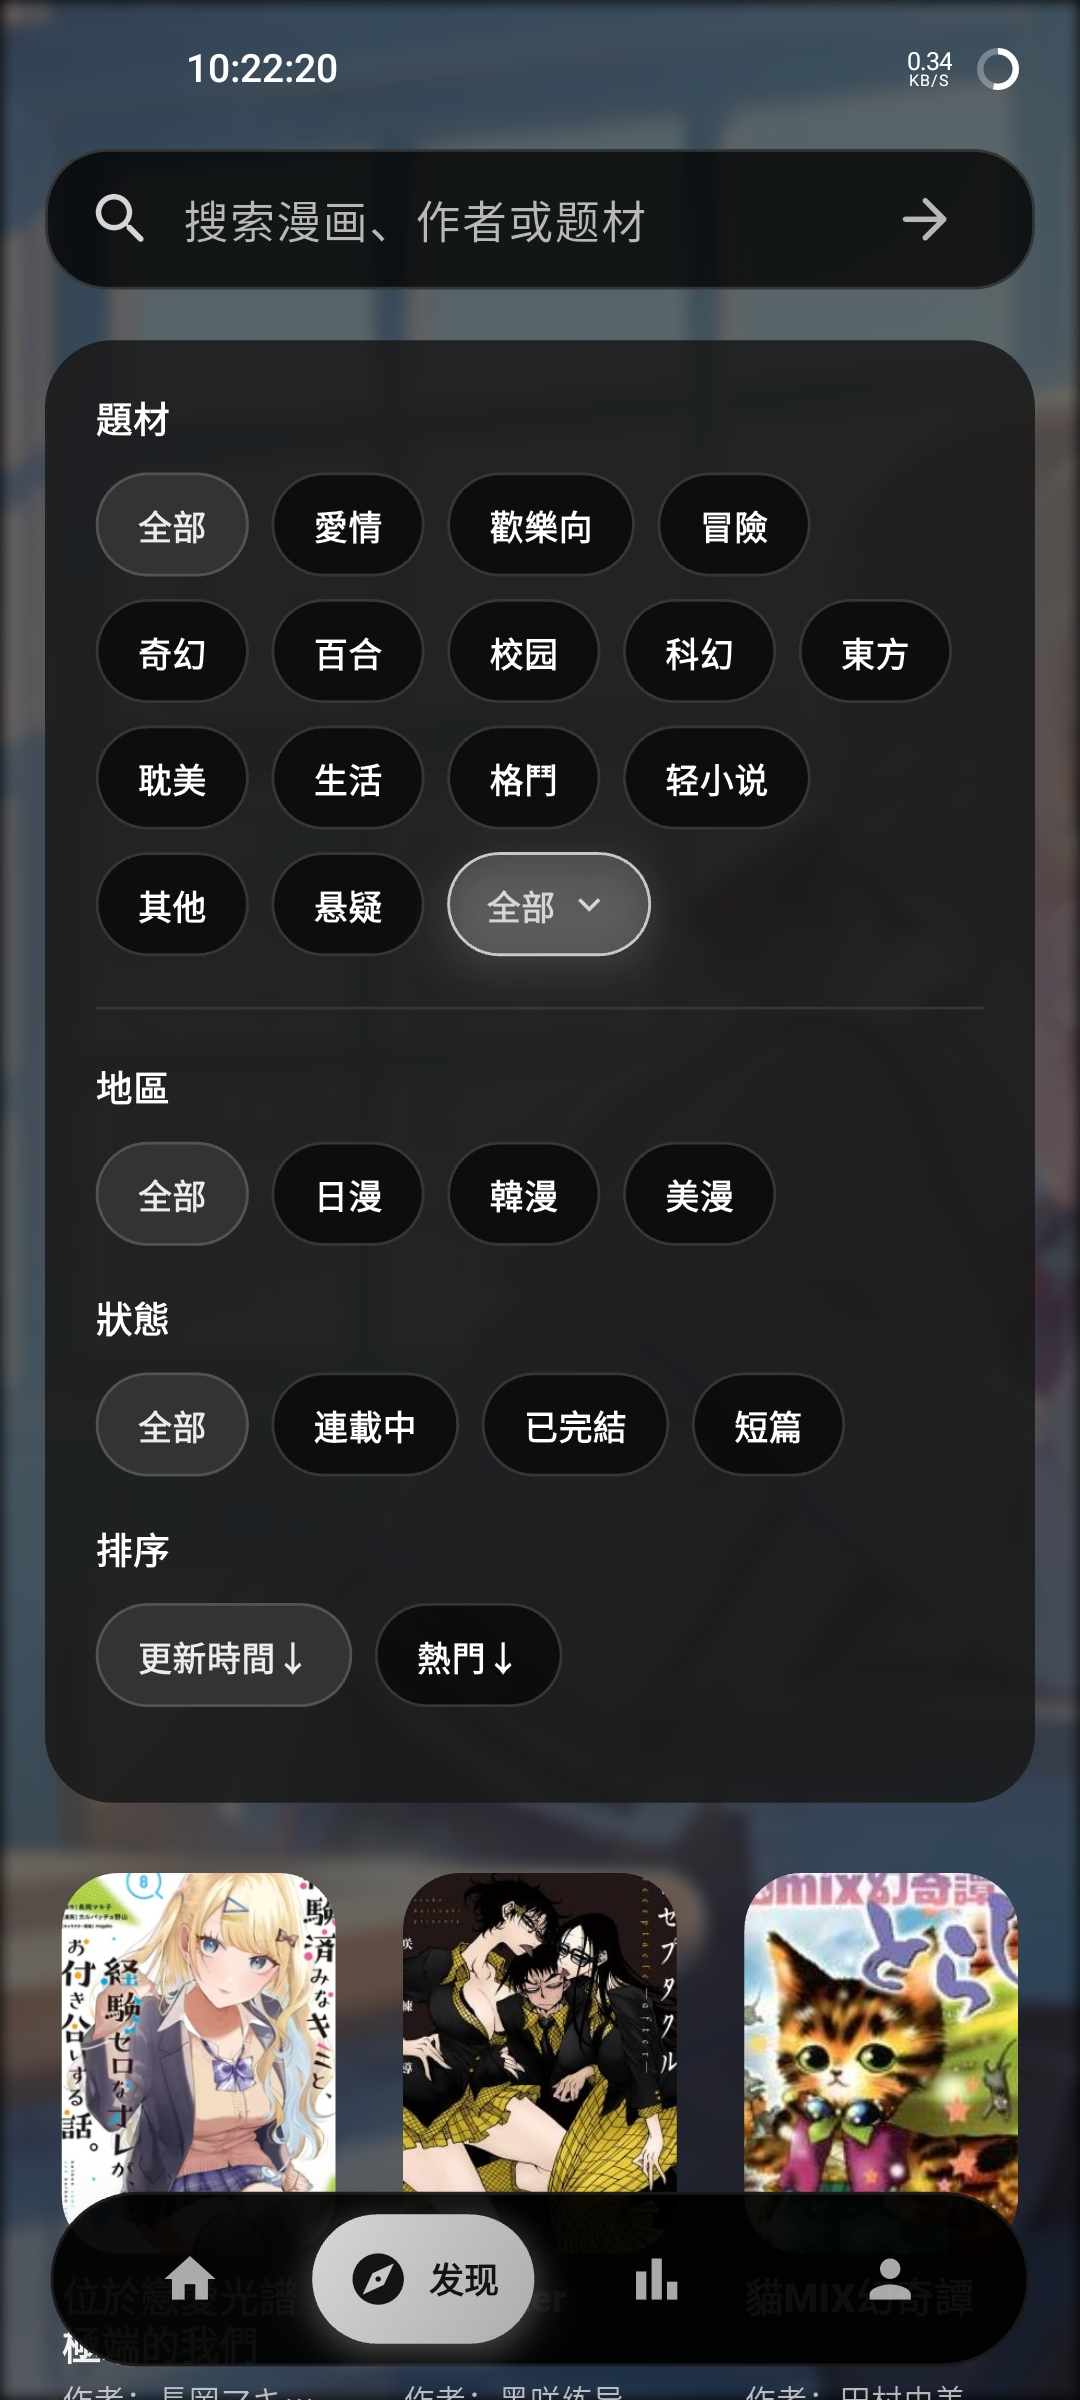
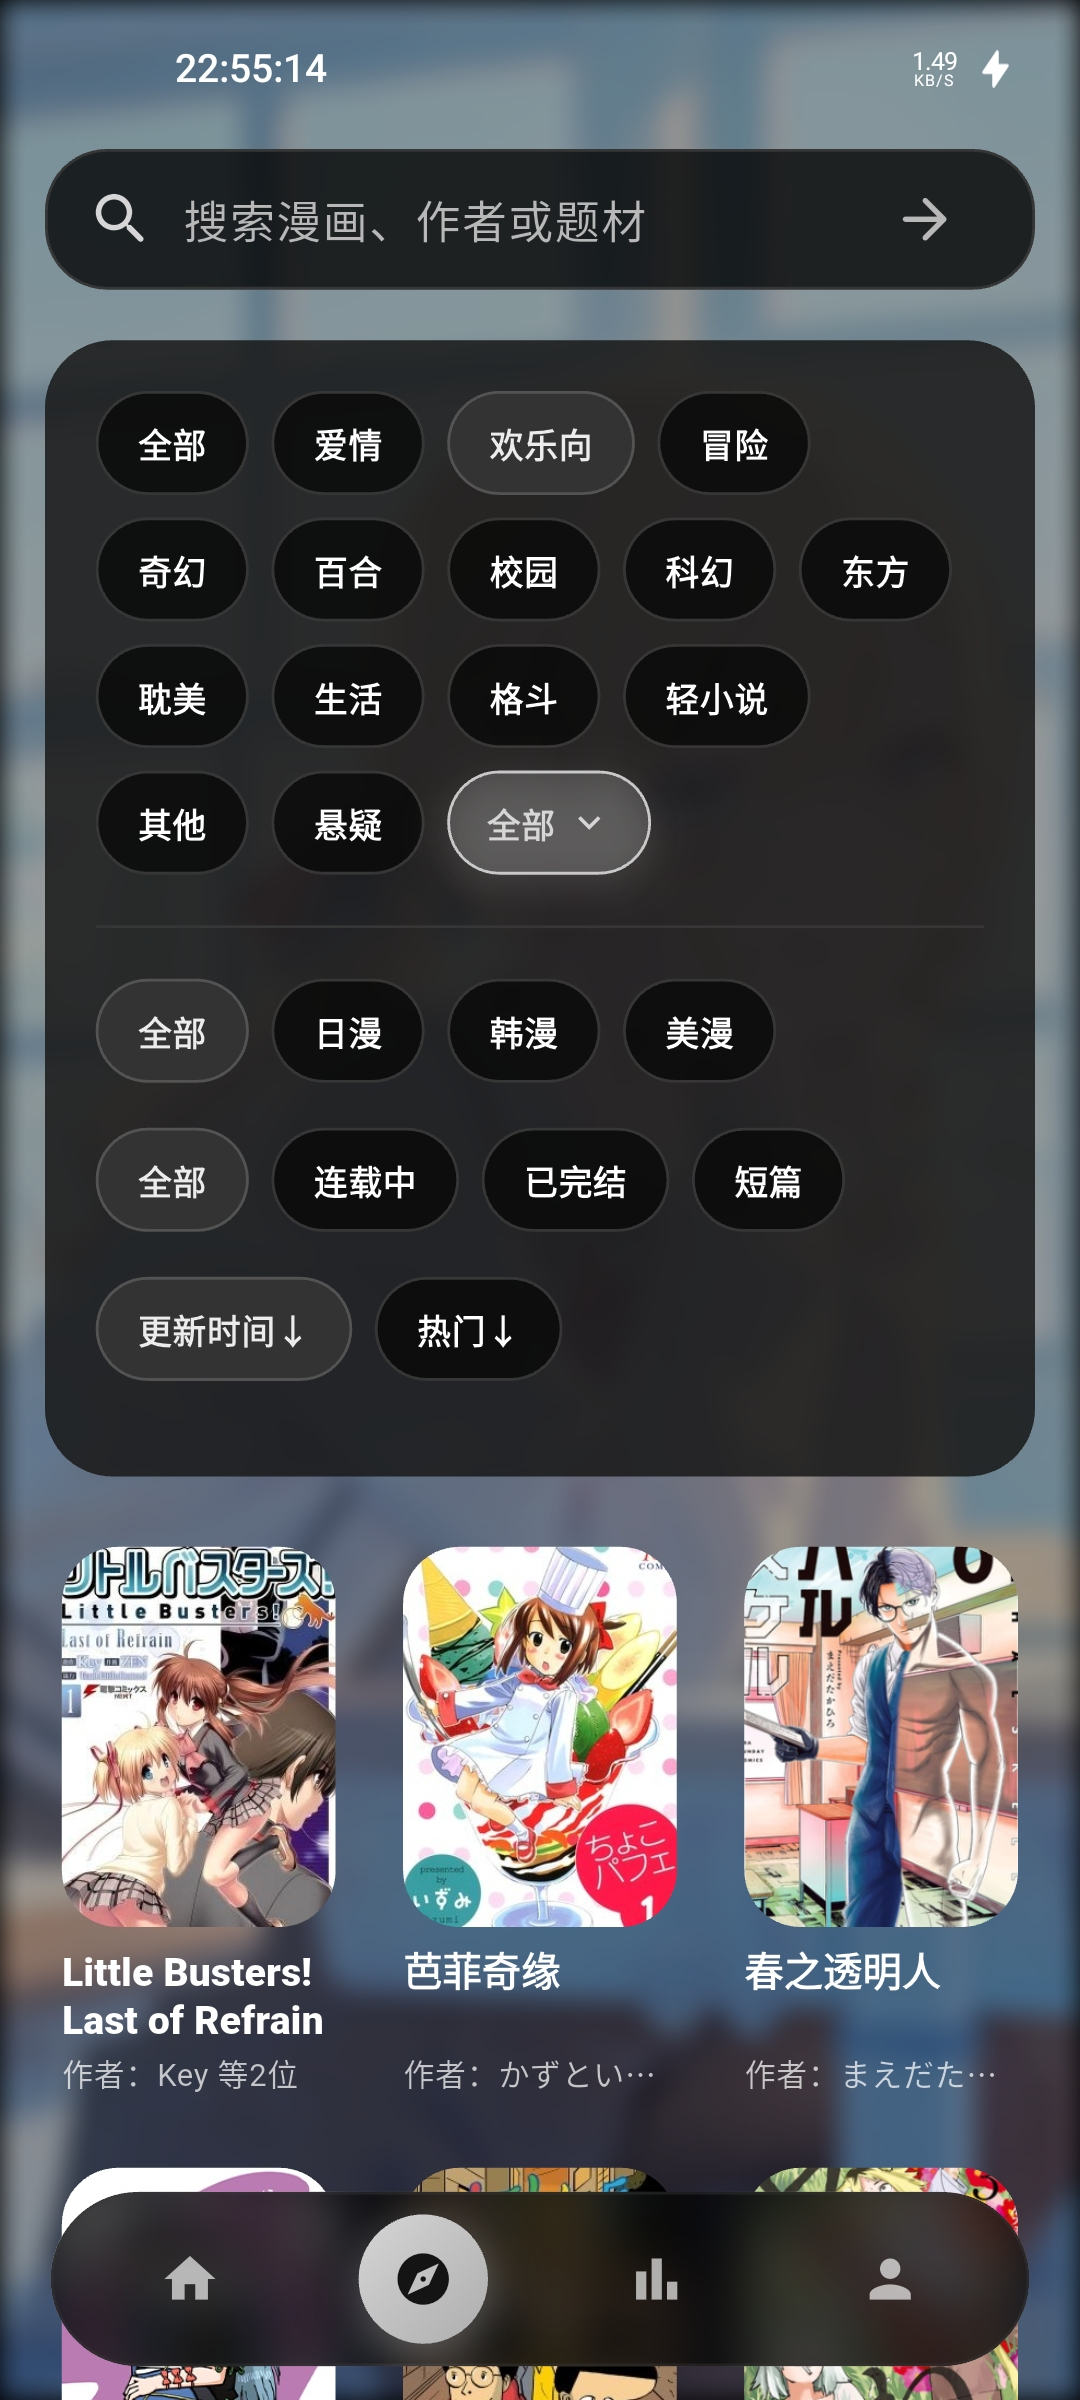
update(docs):更新文档

diff --git a/.github/release-notes/v2.7.0.md b/.github/release-notes/v2.7.0.md
@@ -1,0 +1,19 @@
+## 改进
+- 新增“显示简体”开关，覆盖漫画列表、排行、详情、章节、书架及下载管理
+- 阅读页改为按当前位置动态预加载后续图片，提升连续阅读流畅度
+- 重构漫画详情页与个人页，精简热度、别名等信息并重新整理壁纸、域名和版本设置
+- 统一桌面端与移动端的导航动效及详情页样式
+- 优化大字号和长标题下的卡片布局，减少文字裁切
+
+## 修复
+- 修复详情页章节密文接口变化导致章节列表加载失败的问题
+- 修复详情页切换章节分组时内容重叠、尺寸残留的问题
+- 修复 Windows 部分章节图片解析异常的问题
+- 修复 Windows 阅读器切章时全屏闪断、鼠标无法拖动及设置页手势冲突的问题
+- 修复 QUIC 不可用时重复失败、备用域名切换错误及 Host 切换后的状态异常
+- 修复登录状态恢复后个人页无法自动刷新账号数据的问题
+- 修复下载任务重复启动、删除正在下载的漫画可能失效及迁移日志并发覆盖的问题
+
+# 其它
+- 修复页面骨架屏反复重建时动画监听累积的问题
+- 完善 Android、Windows 构建校验和第三方许可说明
